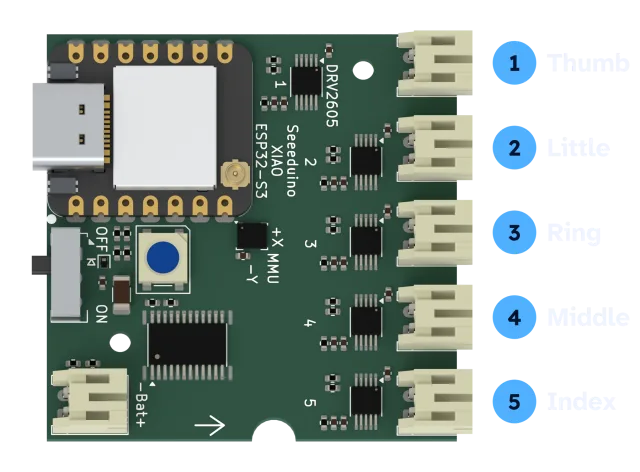
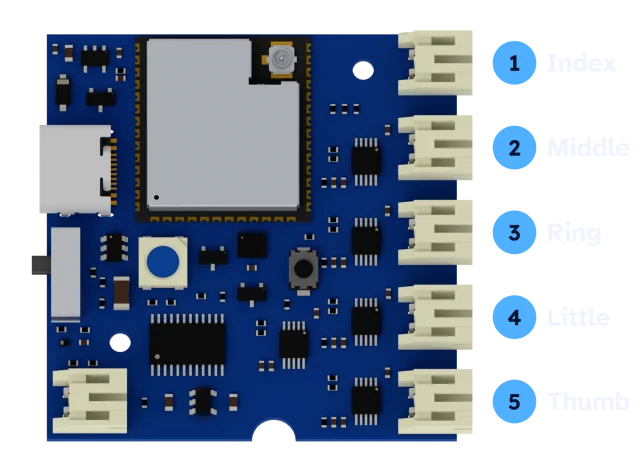
docs: put v3 motor ports in finger order
Firmware now maps index to port 1 and thumb to port 5. Update the port
table and the labeled board image, which also moves to the current board.

diff --git a/src/docs/wiring.md b/src/docs/wiring.md
@@ -16,15 +16,13 @@ Switch the board off first. Plug each lead into the port in this table:
 
 | Finger | Port on the board |
 | --- | --- |
-| Index | 5 |
-| Middle | 4 |
+| Index | 1 |
+| Middle | 2 |
 | Ring | 3 |
-| Little | 2 |
-| Thumb (optional) | 1 |
+| Little | 4 |
+| Thumb (optional) | 5 |
 
-The port numbers run opposite to the fingers, so follow the table, not the order on the board.
-
-<Shot src="/docs/img/board-ports-labeled" alt="Top view of the BlueBuzzah v3 board with its 5 motor ports in a column down the right side, numbered 1 to 5 from the XIAO end and labeled Thumb, Little, Ring, Middle and Index." />
+<Shot src="/docs/img/board-ports-labeled" alt="Top view of the BlueBuzzah v3 board with its 5 motor ports in a column down the right side, numbered 1 to 5 from the top and labeled Index, Middle, Ring, Little and Thumb." />
 
 Leave the wires loose until you've tested them.
 

diff --git a/src/docs/troubleshooting.md b/src/docs/troubleshooting.md
@@ -49,7 +49,7 @@ Tap each finger button to find it. Reseat its wire plug so the bare wire touches
 
 ### The buzz lands on the wrong finger
 
-Move the connector to the right port using the [port table in stage 5](/docs/wiring#which-finger-goes-in-which-port). The port numbers on the board run backwards from the finger order.
+Move the connector to the right port using the [port table in stage 5](/docs/wiring#which-finger-goes-in-which-port).
 
 ### Weak or intermittent buzz
 
